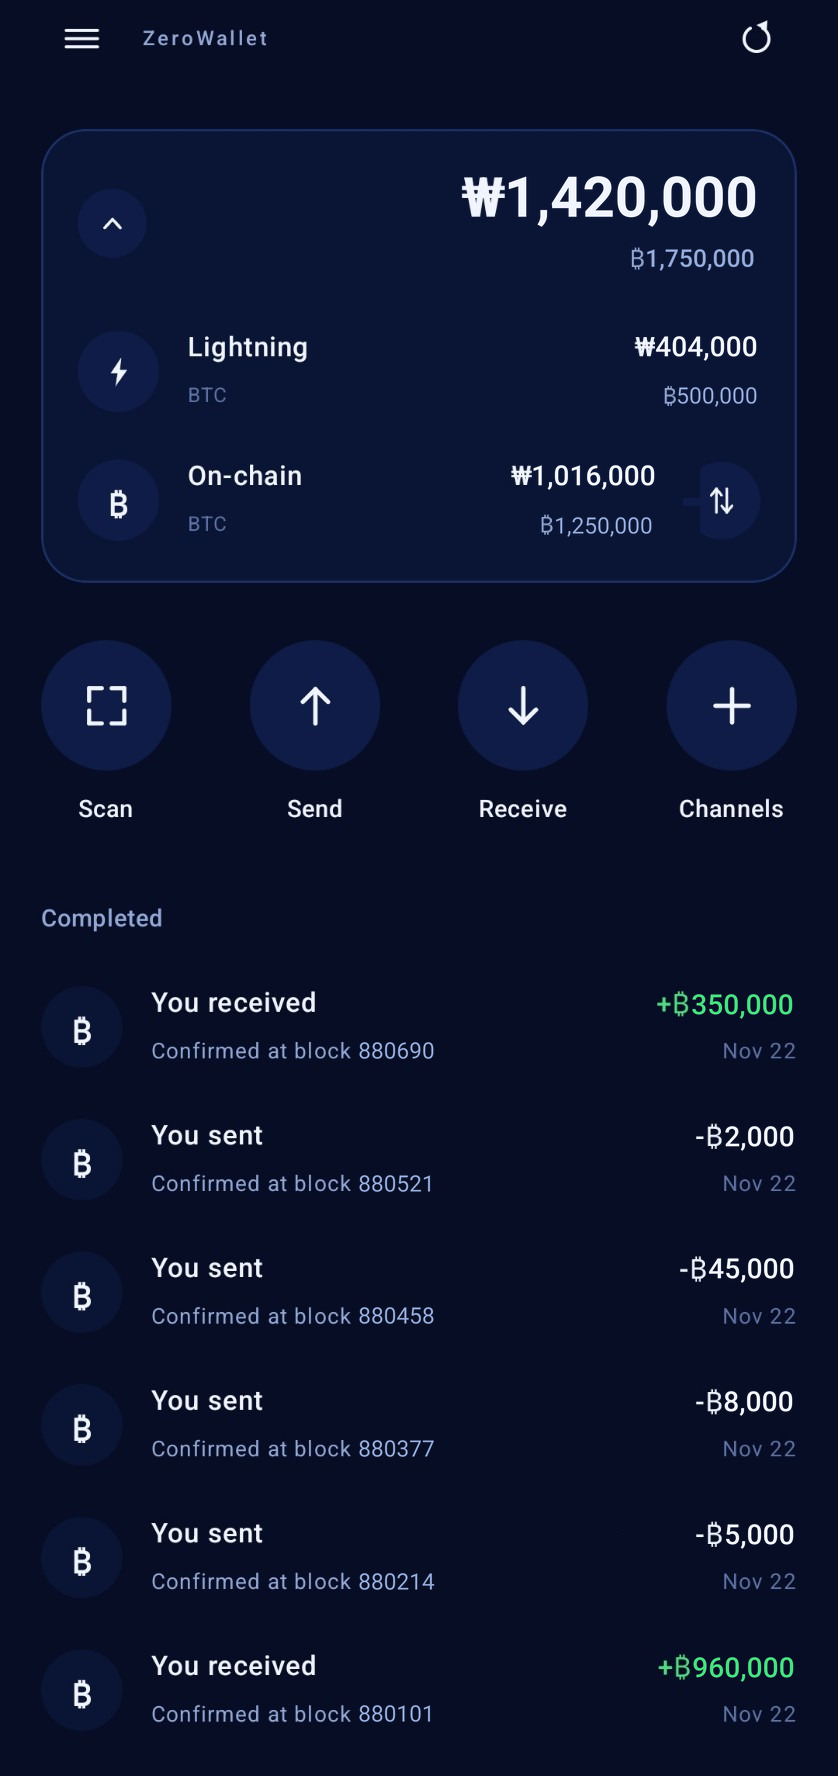
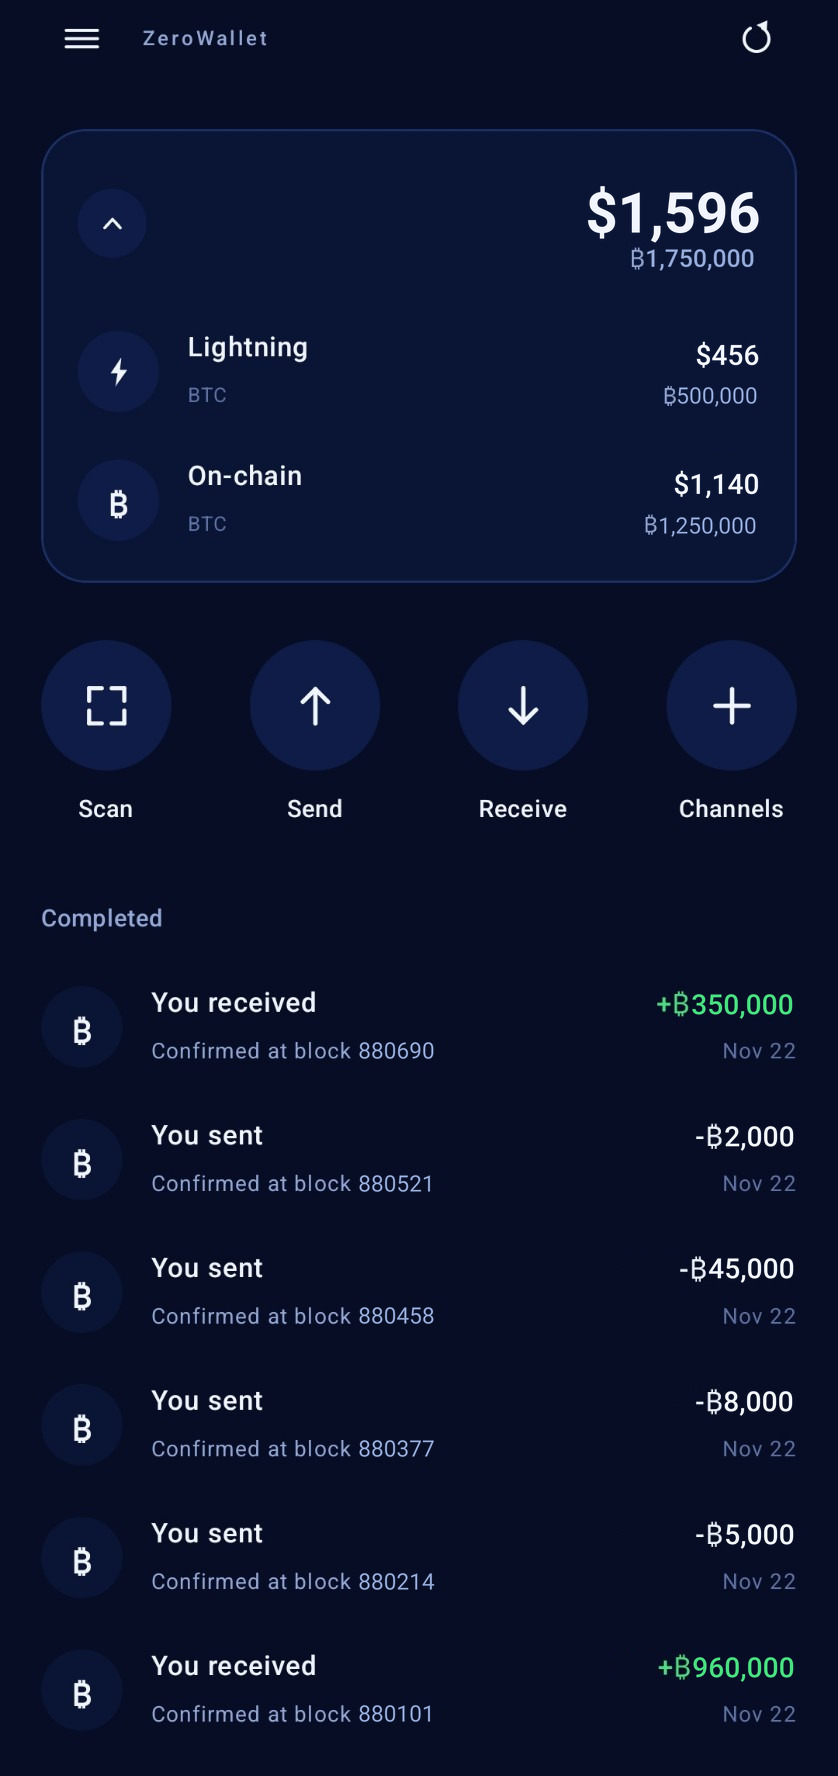
Screenshots in USD, without the control the wallet no longer has
The home-screen capture the README and the store listing have been using was
taken before 9a72e5b: its fiat figures are in won, and the on-chain row still
carries the round swap button that opened the channels sheet. Neither is in the
app that ships 1.2.3.

The figures are repainted with the app's own typography - Roboto at the sizes
Compose uses, 30 sp bold for the total and 15 sp medium for the rows - from the
same example balances (1,750,000 sat priced at $91,200/BTC). The button is
erased and its row's figures right-align to the card's content edge, which is
where they sit without it. The satoshi figures keep their pixels, because the
bitcoin mark is not in Roboto.

tools/make_store_screenshots.py is that paint, so the next change to the card
can be applied to the capture instead of being eyeballed. The changelog for
versionCode 24 goes with it, and the README states 1.2.3 as the version this is.

Every value in the image is an example: the capture was already all demo data.

Changed region(s): [[0.6205, 0.2477, 0.8998, 0.3097], [0.5585, 0.0929, 0.8998, 0.1548], [0.7446, 0.1858, 0.8998, 0.2168]]

diff --git a/tools/make_store_screenshots.py b/tools/make_store_screenshots.py
@@ -1,0 +1,151 @@
+#!/usr/bin/env python3
+"""Rebuild the store screenshots from the last device capture, in USD only.
+
+The capture is the wallet's home screen as the phone drew it. Two things in it
+no longer match the app that ships 1.2.3:
+
+* the fiat figures are in won (the wallet shows one fiat figure, in USD, since
+  9a72e5b), and
+* the on-chain row carried a round swap control that opened the channels sheet.
+  That button was removed (`HomeScreen.kt`, BalanceRow's `trailing`): there is no
+  swap in this wallet, and a control that looks like one teaches the wrong thing
+  about both. The row's two figures therefore right-align to the card's content
+  edge like the Lightning row above them.
+
+So the script repaints the three fiat figures with the app's own typography
+(Roboto at the sizes Compose uses: 30 sp bold for the total, 15 sp medium for the
+rows, 1.875 px per sp) and erases the button. The satoshi figures, the payment
+list and everything else are left as the phone drew them: the bitcoin mark
+(U+20BF) is not in Roboto, so moving those pixels copies the glyph instead of
+re-rendering it.
+
+Every value painted here is an example. The capture was taken with demo amounts;
+nothing in the output comes from a real wallet.
+
+Usage:
+    python3 tools/make_store_screenshots.py docs/preview.jpg \
+        docs/preview.jpg fastlane/metadata/android/en-US/images/phoneScreenshots/1.png
+
+The first argument is the capture to paint over, the second is the README
+preview (838x1776), the third the store screenshot (the same image with the card's
+own background colour padded 25 px on each side, which is what the store listing
+has always used).
+"""
+
+import sys
+
+import numpy as np
+from PIL import Image, ImageDraw, ImageFont
+
+FONTS = "/workspace/work/zerowallet-preview/fonts"
+
+# ui/theme/Theme.kt
+BG = (7, 13, 37)             # Background
+CARD = (10, 21, 53)          # Surface
+PRIMARY = (241, 245, 255)    # TextPrimary
+
+PX_PER_SP = 1.875            # measured from the capture
+SS = 4                       # supersampling factor for text
+
+# Example balances: 1,750,000 sat = 0.0175 BTC, priced at $91,200/BTC.
+#   0.0175  * 91,200 = 1,596
+#   0.005   * 91,200 =   456   (Lightning)
+#   0.0125  * 91,200 = 1,140   (on-chain)
+TOTAL_USD = "$1,596"
+LIGHTNING_USD = "$456"
+ONCHAIN_USD = "$1,140"
+
+# Where the figures sit in the 838x1776 preview: (digit ink top, ink right edge,
+# erase box, weight).
+TOTAL = dict(text=TOTAL_USD, weight="Bold", px=30 * PX_PER_SP, top=176,
+             right=754, clear=(452, 168, 762, 234))
+LIGHTNING = dict(text=LIGHTNING_USD, weight="Medium", px=15 * PX_PER_SP, top=336,
+                 right=755, clear=(628, 330, 762, 366))
+ONCHAIN = dict(text=ONCHAIN_USD, weight="Medium", px=15 * PX_PER_SP, top=465,
+               right=755, clear=(505, 458, 662, 496))
+
+# The removed control: the elevated circle clipped at the card's right edge,
+# x 683..794, y 462..537. The border line at x 795 and beyond is left alone.
+SWAP_CLEAR = (679, 455, 794, 543)
+
+# The on-chain satoshi figure moves right with the column, from ink right 651 to
+# the content edge the Lightning row uses.
+SATS_BOX = (538, 508, 654, 544)
+SATS_SHIFT = LIGHTNING["right"] - 651
+
+
+def render(text, weight, px, color):
+    """Draw text with Roboto at the app's size, cropped to its ink box."""
+    font = ImageFont.truetype(f"{FONTS}/Roboto-{weight}.ttf", int(round(px * SS)))
+    canvas = Image.new("RGBA", (int(px * SS * len(text) * 1.2) + 40, int(px * SS * 3)),
+                       (0, 0, 0, 0))
+    ImageDraw.Draw(canvas).text((10, 10), text, font=font, fill=color + (255,))
+    canvas = canvas.resize((max(1, round(canvas.width / SS)),
+                            max(1, round(canvas.height / SS))), Image.LANCZOS)
+    return canvas
+
+
+def ink_box(img, threshold=10):
+    a = np.asarray(img)
+    ys, xs = np.nonzero(a[..., 3] > threshold)
+    return int(ys.min()), int(ys.max()), int(xs.min()), int(xs.max())
+
+
+def place(img, spec):
+    """Paste a figure so its digits sit on the capture's own baseline."""
+    whole = render(spec["text"], spec["weight"], spec["px"], PRIMARY)
+    digits = render(spec["text"].lstrip("$"), spec["weight"], spec["px"], PRIMARY)
+    wy0, _, wx0, wx1 = ink_box(whole)
+    dy0, _, _, _ = ink_box(digits)
+    # The currency sign rises above the digits and dips below the baseline; the
+    # digits are what has to line up with the capture.
+    y = spec["top"] - (dy0 - wy0)
+    x = spec["right"] - (wx1 - wx0)
+    img.alpha_composite(whole, (x, y))
+
+
+def main(src_path, preview_path, store_path):
+    src = Image.open(src_path).convert("RGBA")
+    if src.size != (838, 1776):
+        sys.exit(f"expected an 838x1776 capture, got {src.size[0]}x{src.size[1]}")
+
+    out = src.copy()
+    draw = ImageDraw.Draw(out)
+
+    # 1. The removed control: card background, nothing else. The card's own
+    #    border runs down x 792..794 there, so those columns take their colours
+    #    from a row above the button instead of the fill.
+    draw.rectangle([SWAP_CLEAR[0], SWAP_CLEAR[1], SWAP_CLEAR[2], SWAP_CLEAR[3]],
+                   fill=CARD + (255,))
+    border = np.asarray(src.crop((792, SWAP_CLEAR[1] - 8, 795, SWAP_CLEAR[1] - 7)))
+    out_arr = np.asarray(out).copy()
+    out_arr[SWAP_CLEAR[1]:SWAP_CLEAR[3] + 1, 792:795] = border[0]
+    out = Image.fromarray(out_arr)
+    draw = ImageDraw.Draw(out)
+
+    # 2. The on-chain satoshi figure keeps its pixels, at the content edge.
+    sats = src.crop(SATS_BOX)
+    draw.rectangle([SATS_BOX[0] - 2, SATS_BOX[1] - 2,
+                    SATS_BOX[2] + 2, SATS_BOX[3] + 2], fill=CARD + (255,))
+    out.alpha_composite(sats, (SATS_BOX[0] + SATS_SHIFT, SATS_BOX[1]))
+
+    # 3. The three fiat figures.
+    for spec in (TOTAL, LIGHTNING, ONCHAIN):
+        draw.rectangle([spec["clear"][0], spec["clear"][1],
+                        spec["clear"][2], spec["clear"][3]], fill=CARD + (255,))
+        place(out, spec)
+
+    preview = out.convert("RGB")
+    preview.save(preview_path, quality=92, subsampling=0)
+
+    store = Image.new("RGB", (preview.width + 50, preview.height), BG)
+    store.paste(preview, (25, 0))
+    store.save(store_path)
+
+    print(f"wrote {preview_path} {preview.size} and {store_path} {store.size}")
+
+
+if __name__ == "__main__":
+    if len(sys.argv) != 4:
+        sys.exit(__doc__)
+    main(*sys.argv[1:])

diff --git a/README.md b/README.md
@@ -58,8 +58,12 @@ alone, so the same file opens in either app. Once restored, the old app can be u
   starts on `https://blockstream.info/api`. That endpoint can time out from a phone network,
   and ldk-node then fails the whole start with `FeerateEstimationUpdateTimeout`: so when the
   saved endpoint does not answer, the same start is retried on `https://mempool.space/api`
-  and then `https://mempool.emzy.de/api`, and the node says which server it is reading. The
-  endpoint that came up last is remembered and tried ahead of the remaining fallbacks. An
+  and then `https://mempool.emzy.de/api`, and the node says which server it is reading. A
+  node that is already running and cannot sync is moved the same way, endpoint by endpoint,
+  instead of sitting on "Sync problem" until the user restarts it by hand; only when every
+  public endpoint has refused does the message appear, and then the node is put back on the
+  endpoint it had so the recovery cannot cost a running node. The endpoint that came up last
+  is remembered and tried ahead of the remaining fallbacks. An
   endpoint typed into Settings is the user's own choice and is never swapped for a public
   one. A different Esplora endpoint can be typed into Settings, and saving it restarts the
   node so the new source is in use right away instead of waiting for the next start.
@@ -83,8 +87,9 @@ alone, so the same file opens in either app. Once restored, the old app can be u
   channel service, no channel-opening fee to a third party.
 - **QR everywhere.** Camera scanning for invoices, offers, BIP-21 URIs and peer addresses;
   QR rendering for everything the wallet hands out.
-- **Live fiat value.** BTC/USD from public price endpoints, and a
-  graceful dash instead of a stale number when the phone is offline.
+- **Live fiat value, in one currency.** One figure per balance, in USD, from a BTC/USD price
+  (CoinGecko, then mempool.space), and a graceful dash instead of a stale number when the
+  phone is offline.
 - **Gossip from peers, or a snapshot of this chain.** The node learns the channel graph from
   its peers by default. Rapid Gossip Sync can be switched on in Settings, and the snapshot
   server is chosen per chain: the mainnet URL on mainnet, the testnet URL on Testnet3, and
@@ -440,7 +445,7 @@ Compose UI  ──  WalletViewModel (lock state machine)  ──  NodeManager (f
   for the two ARM ABIs.
 - BOLT12 and inbound Lightning need network reachability; a phone behind carrier NAT cannot
   accept inbound connections without port forwarding.
-- This is a self-custody wallet at `1.2.2`: keep amounts you are willing to lose while the
+- This is a self-custody wallet at `1.2.3`: keep amounts you are willing to lose while the
   peer-to-peer flows get real-world mileage.
 
 ## Build
@@ -522,6 +527,7 @@ docs/at-rest.md              what is on disk in plain text, what protects it, an
 .github/workflows/apk.yml    CI: SHA-pinned actions, signed release build
 .github/ci/apk-release.yml   the same workflow as a reviewable file
 verify-english.py            English-only guard
+tools/make_store_screenshots.py  rebuilds docs/preview.jpg and the store screenshot from the last capture, in USD
 ```
 
 The Kotlin package, `namespace` and `applicationId` are all `com.corejbh.zerowallet`: one name
